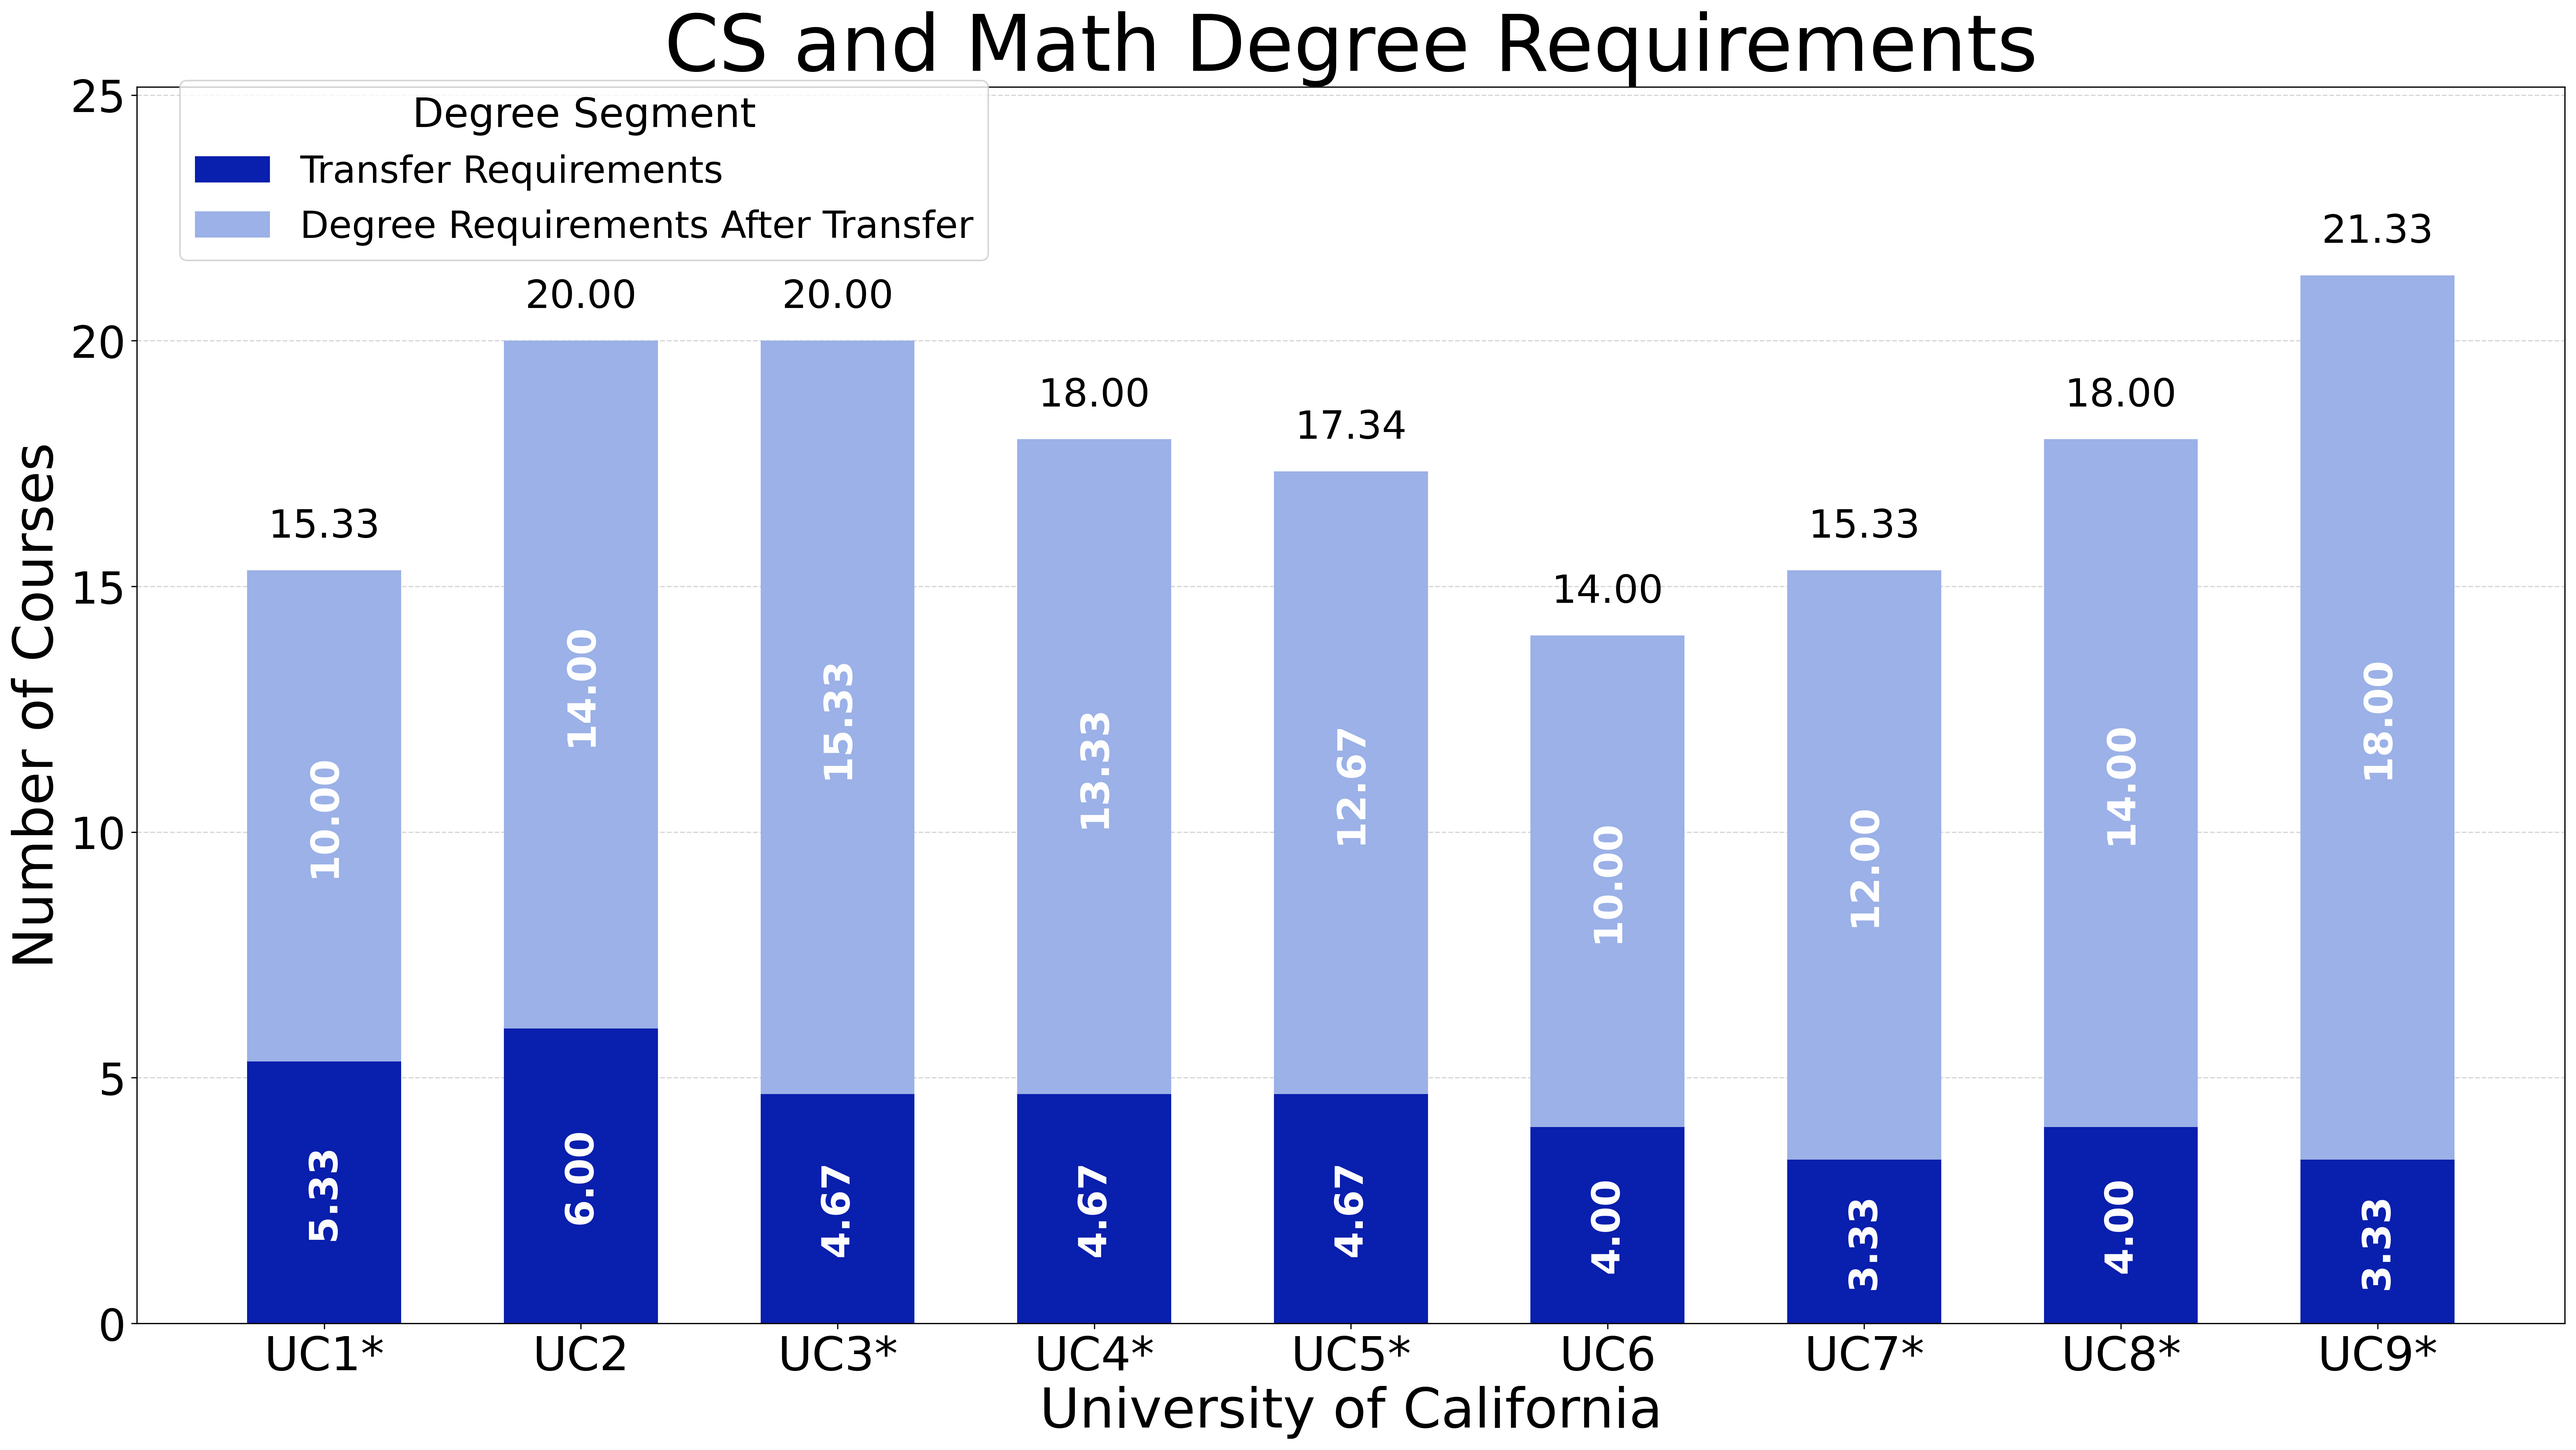
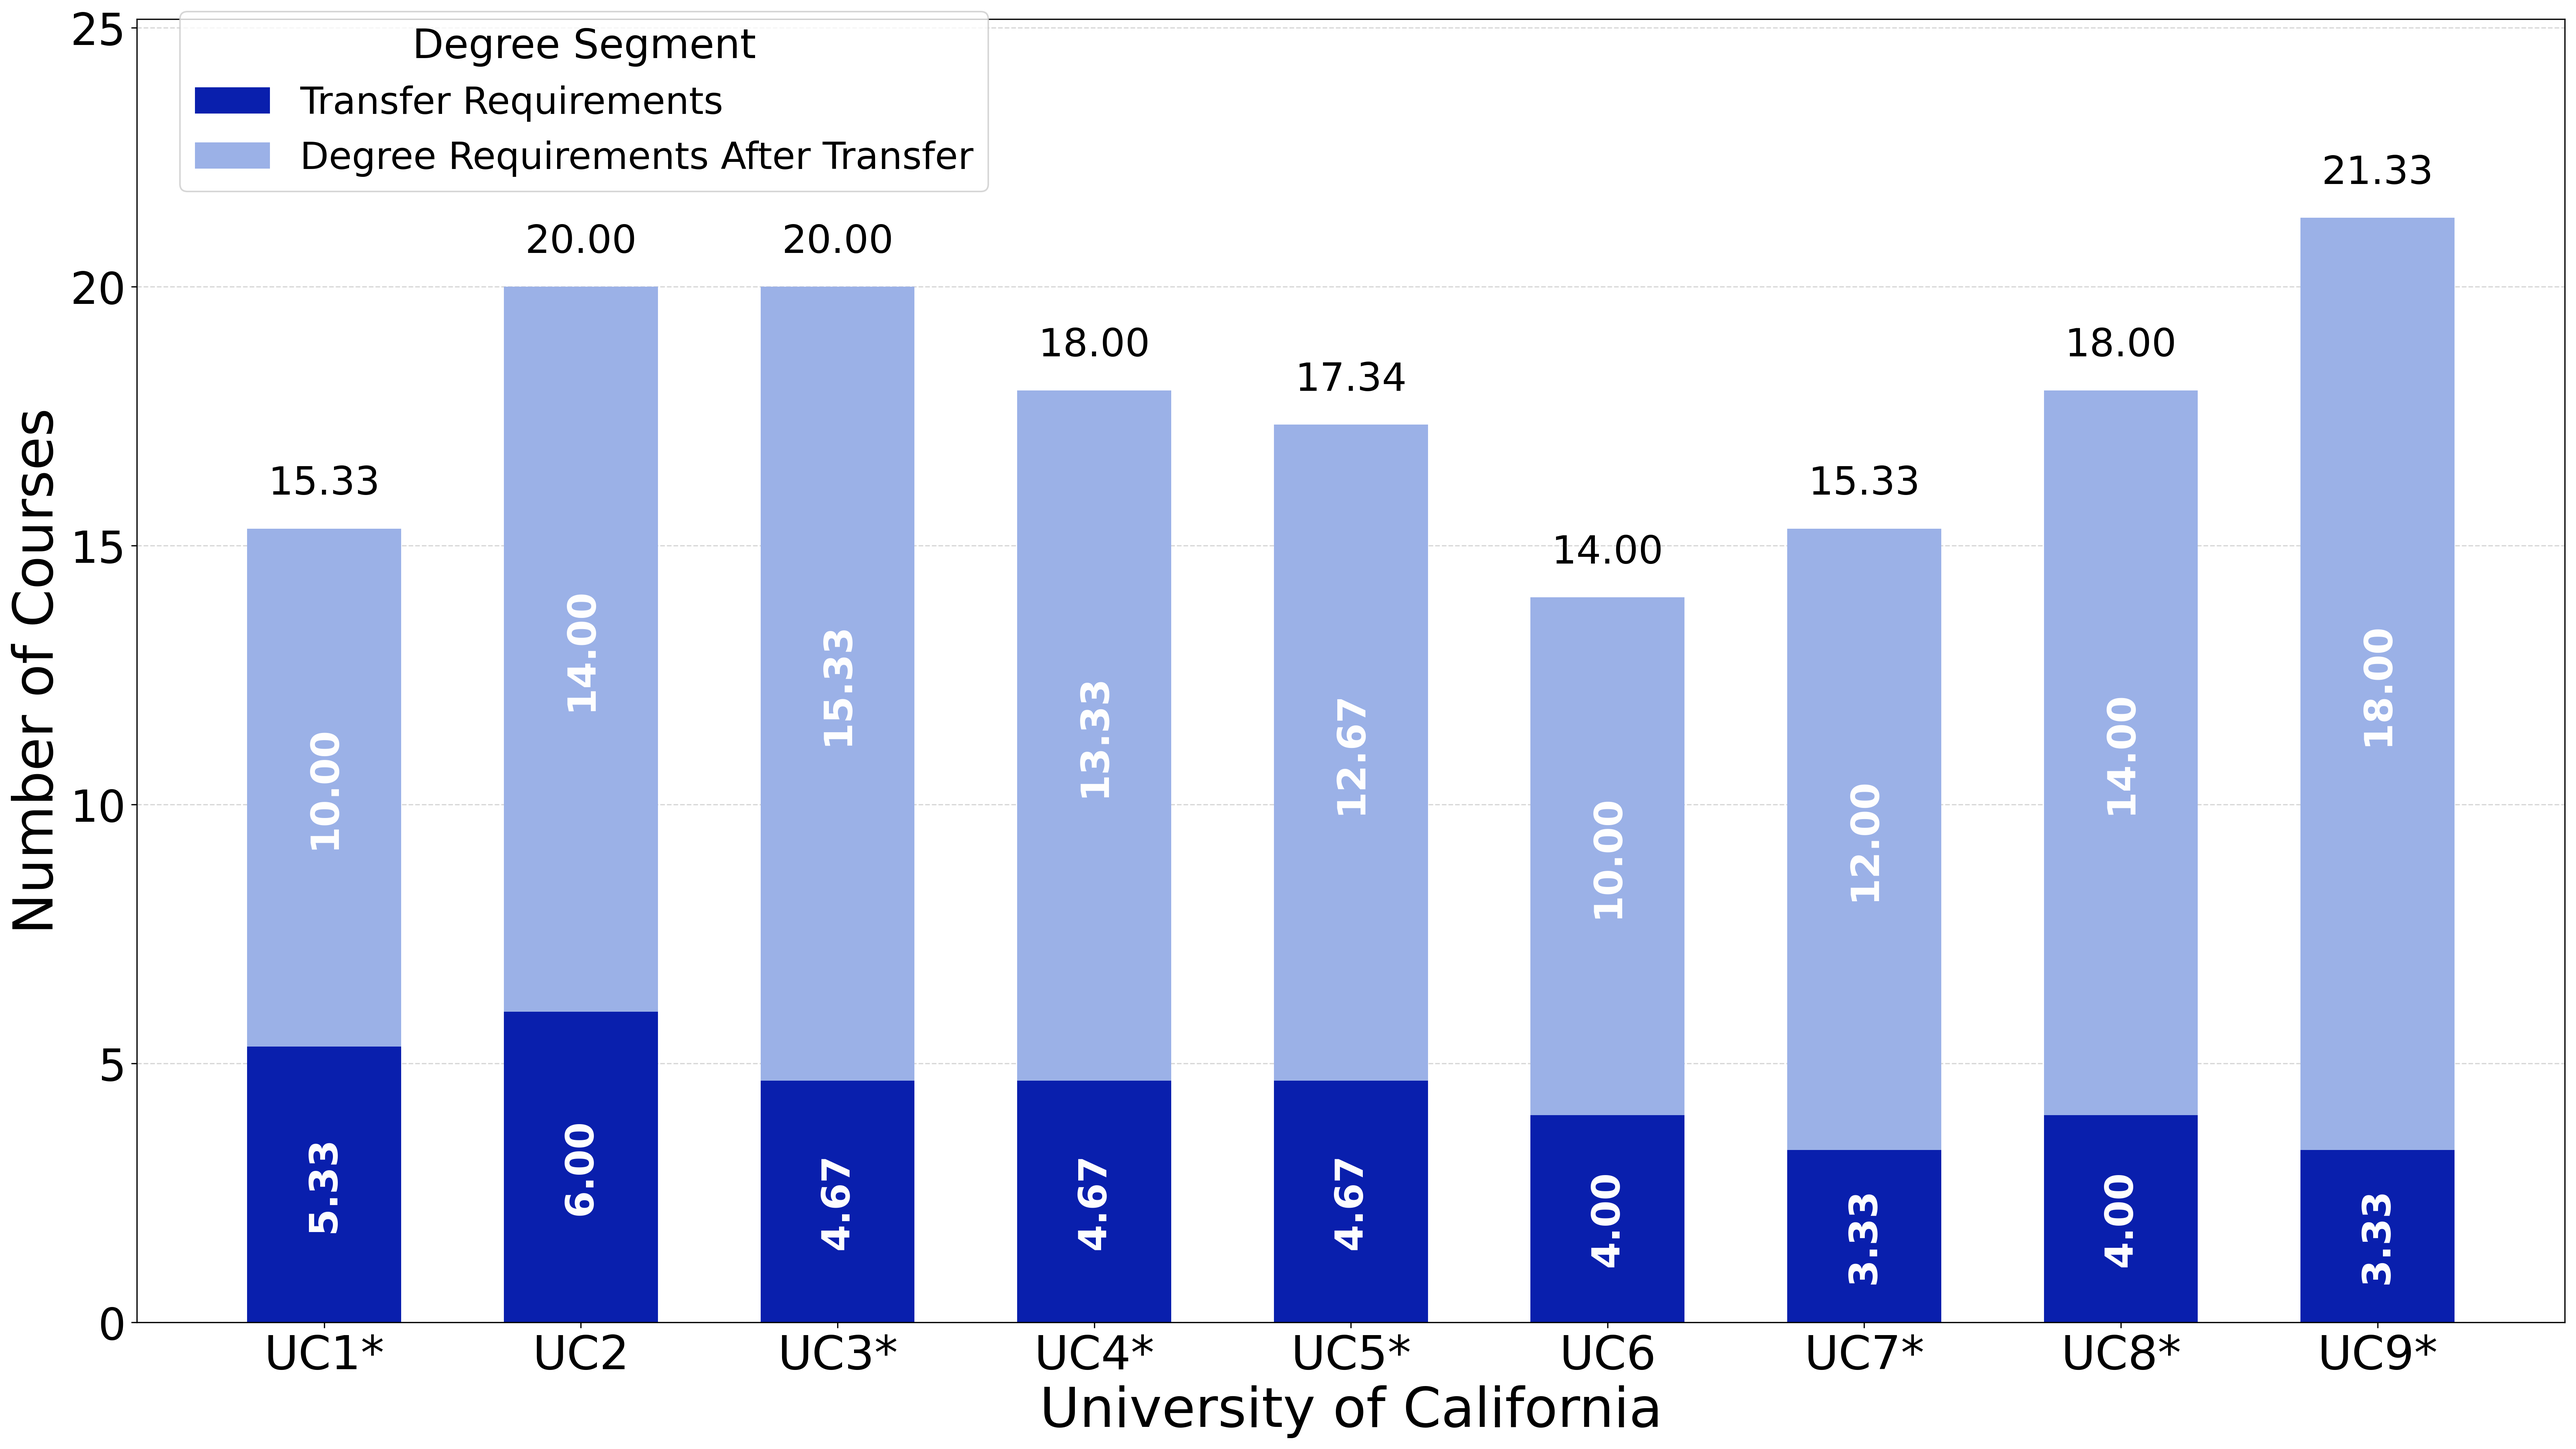
updated figures to have no title

diff --git a/question_1/scripts/scripts_for_graphs/time_to_degree_graph.py b/question_1/scripts/scripts_for_graphs/time_to_degree_graph.py
@@ -88,7 +88,7 @@ ax.set_ylim(0, ymax * 1.18)
 # Axis labels and title
 ax.set_ylabel("Number of Courses", fontsize=35)
 ax.set_xlabel("University of California", fontsize=35)
-plt.title("CS and Math Degree Requirements", fontsize=50)
+#plt.title("CS and Math Degree Requirements", fontsize=50)
 
 ax.set_xticks(x)
 ax.set_xticklabels([uc_display_names[uc] for uc in uc_labels], fontsize=30)

diff --git a/question_1/scripts/scripts_for_graphs/grouped_bar_graph.py b/question_1/scripts/scripts_for_graphs/grouped_bar_graph.py
@@ -218,7 +218,7 @@ else:
     used = [pretty[p] for p in sorted(source_types)]
     source_str = " & ".join(used)
 plot_title = f"Transferable Courses by Order per UC"
-plt.title(plot_title, fontsize=50)
+#plt.title(plot_title, fontsize=50)
 plt.ylabel("Number of Courses", fontsize=35)
 plt.xlabel("University of California", fontsize=35)
 plt.tight_layout()
